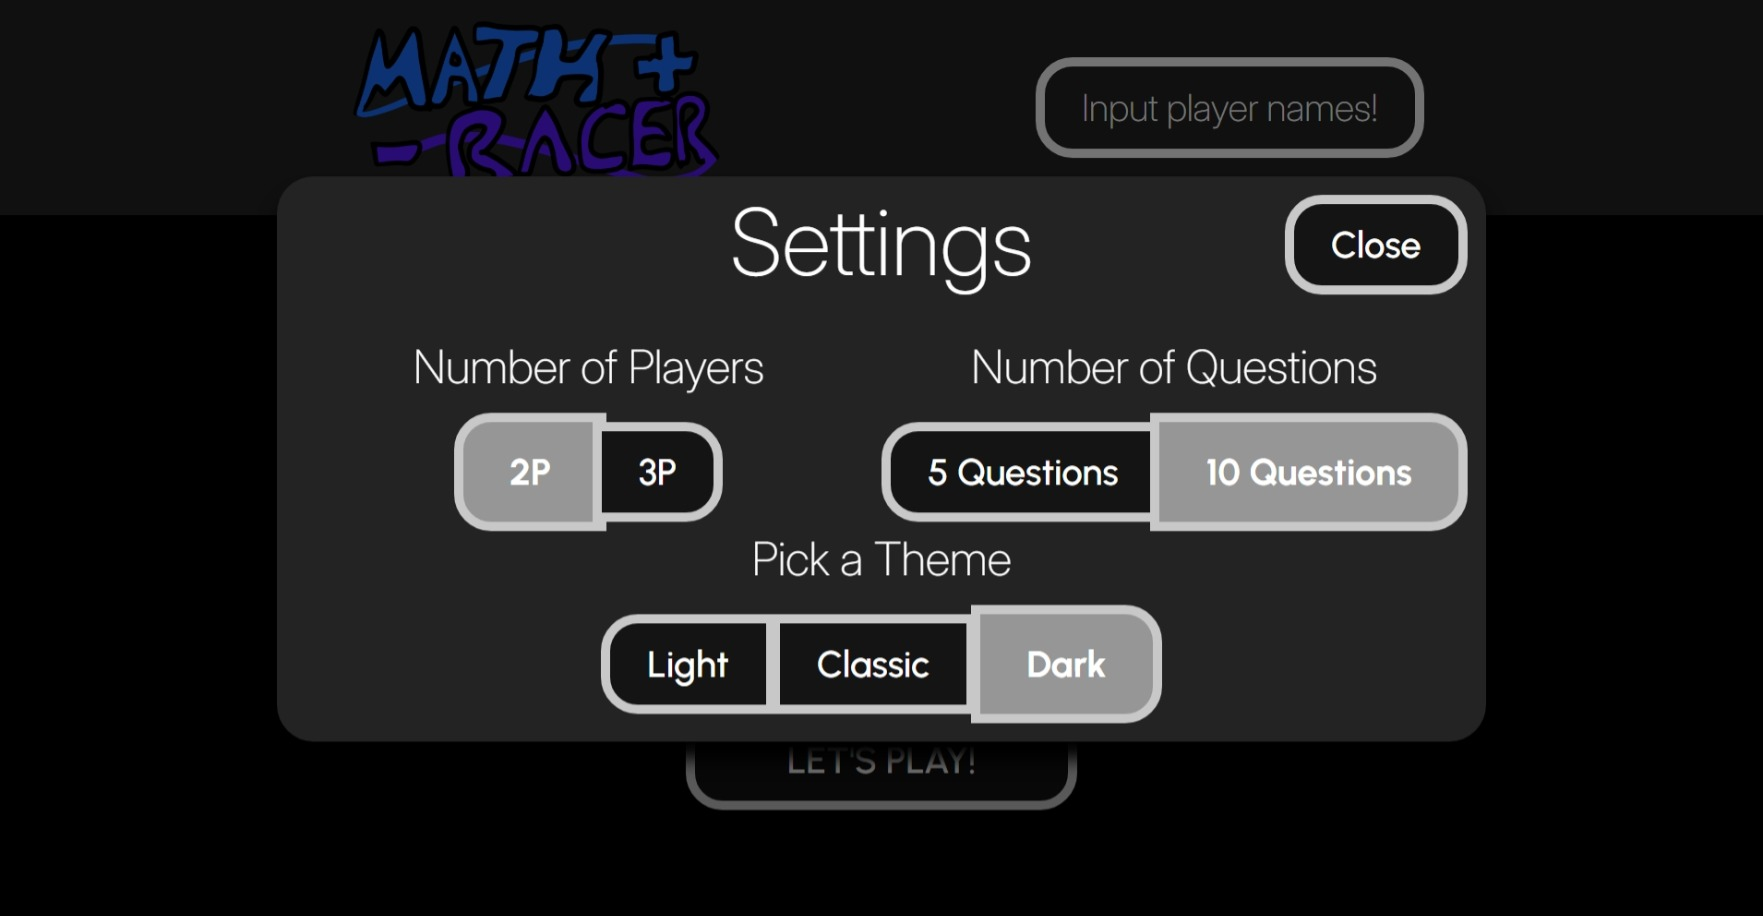
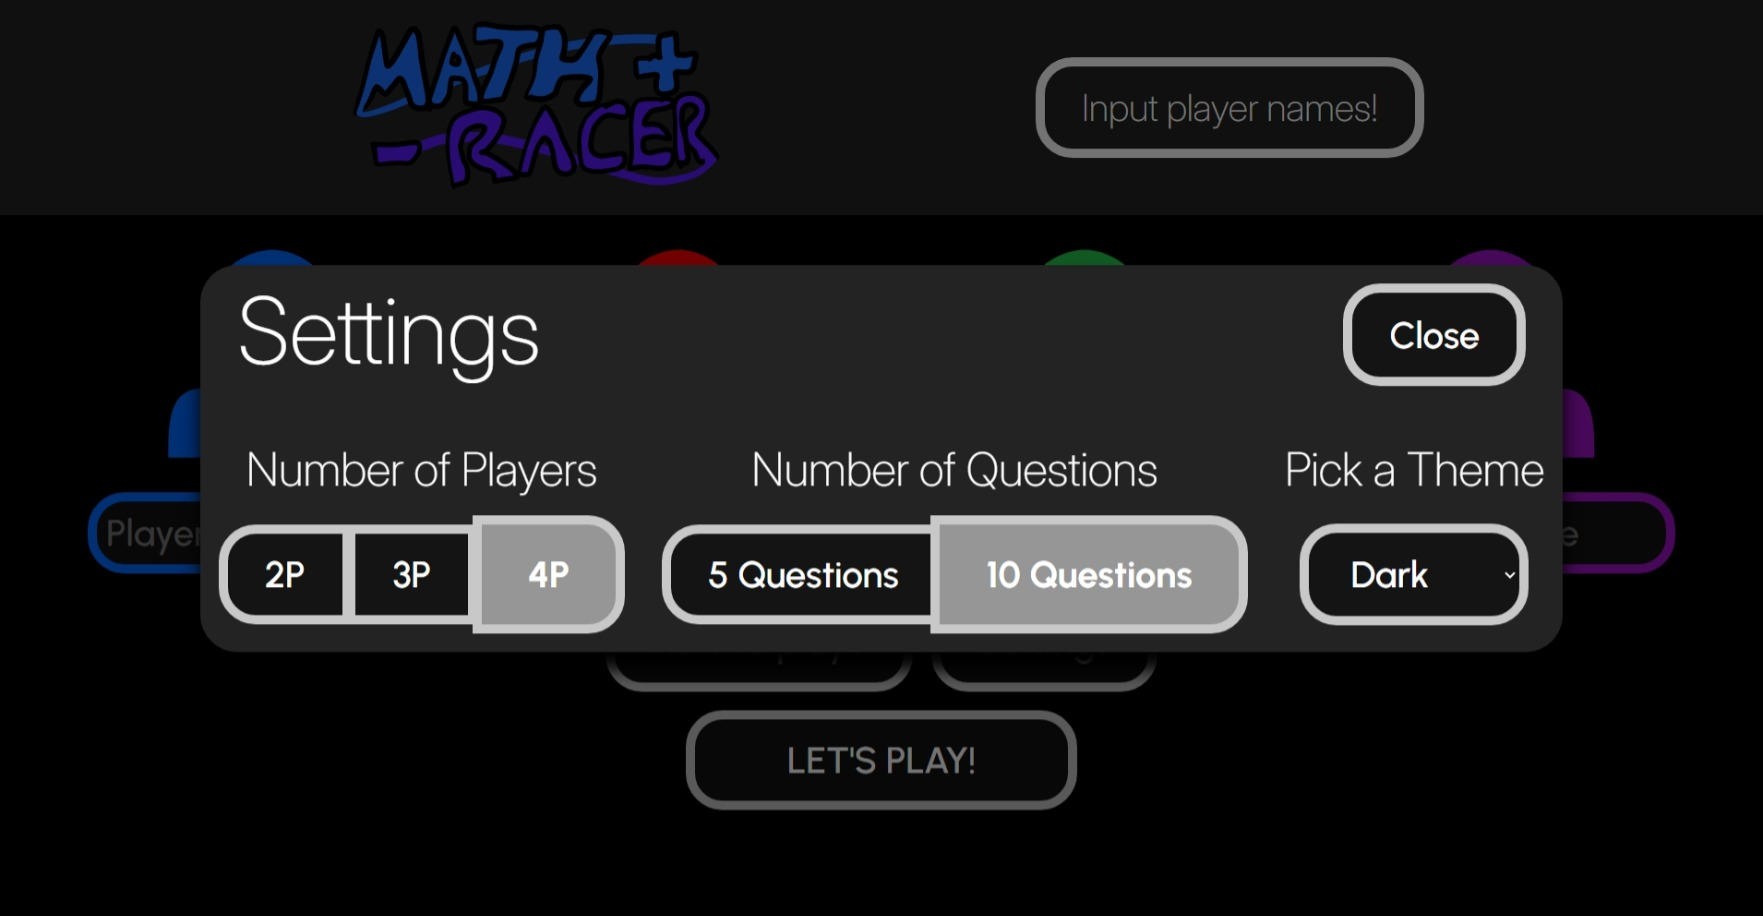
docs(readme): update README.md
update settings.jpeg to show new settings layout

Changed region(s): [[0.0312, 0.1834, 0.9359, 0.8559], [0.9359, 0.5502, 0.9671, 0.6114]]

diff --git a/src/styles.css b/src/styles.css
@@ -304,7 +304,7 @@ button.players,
   border-radius: 2rem;
   margin-top: auto;
   margin-bottom: auto;
-  color: var(--button-text)
+  color: var(--button-text);
 }
 
 .theme-toggle:hover option {
